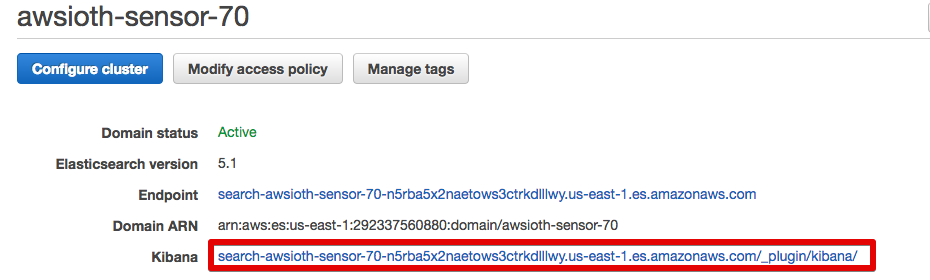
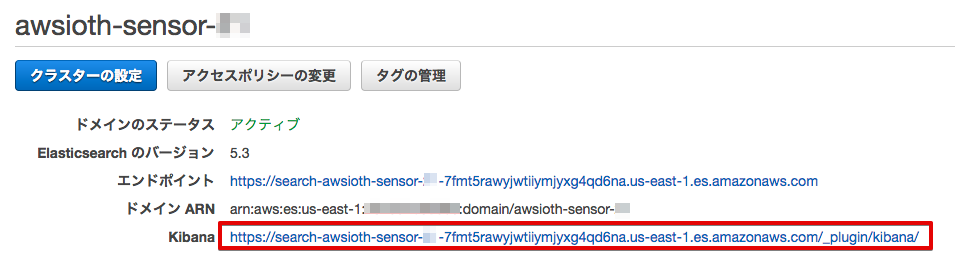
Update

diff --git a/docs/06.rst b/docs/06.rst
@@ -160,13 +160,13 @@ Type           scenario1
 Kibanaでデータを確認
 ===================================
 
-マネージメントコンソールのサービス一覧から[Elasticsearch Service]を開きます。[検索可能なドキュメント] の数字が0より大きくなっていることを確認します。[Cluster health]が[Yellow]になっていのはシングルノード構成のためでありハンズオンでは問題ありません。
+マネージメントコンソールのサービス一覧から[Elasticsearch Service]を開きます。[検索可能なドキュメント] の数字が0より大きくなっていることを確認します。[クラスターの状態] が [黄色] になっていのはシングルノード構成のためでありハンズオンでは問題ありません。
 
 .. image:: images/6-searchable_documents.png
 
 |
 
-[Domain]のリンクをクリックして開きます。
+[ドメイン] のリンクをクリックして開きます。
 
 .. image:: images/6-kibana-link.png
 
